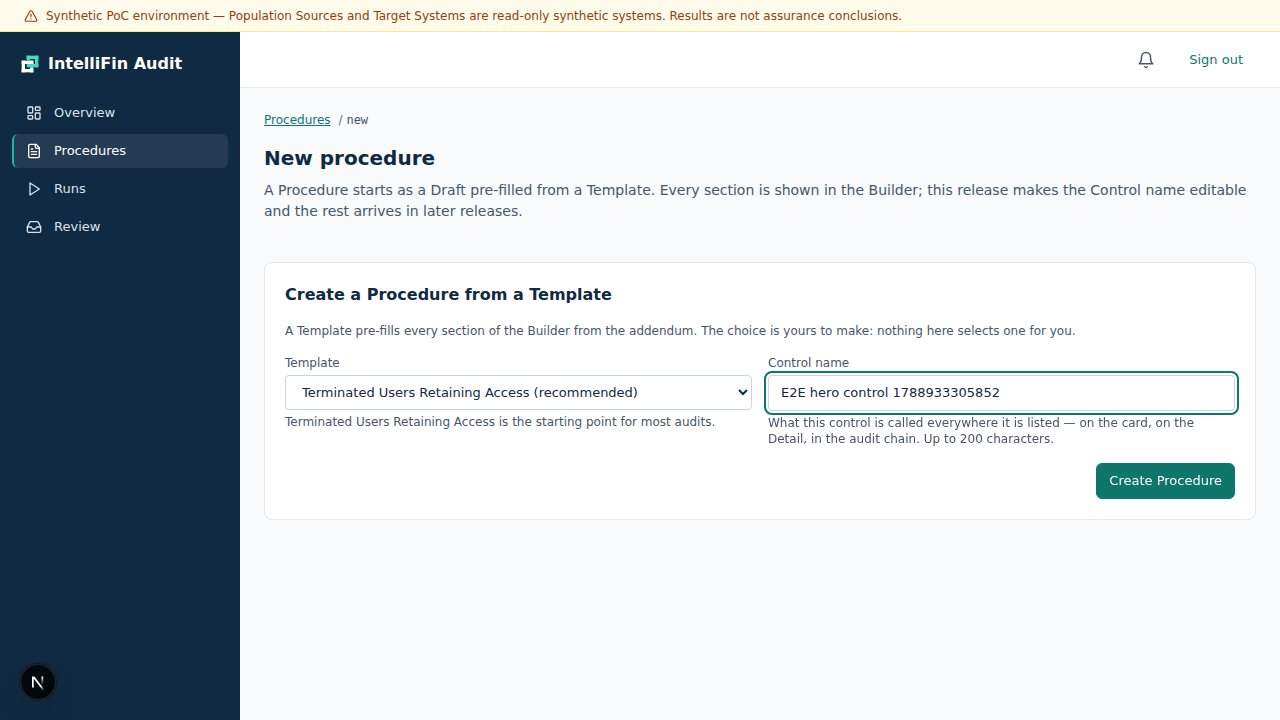
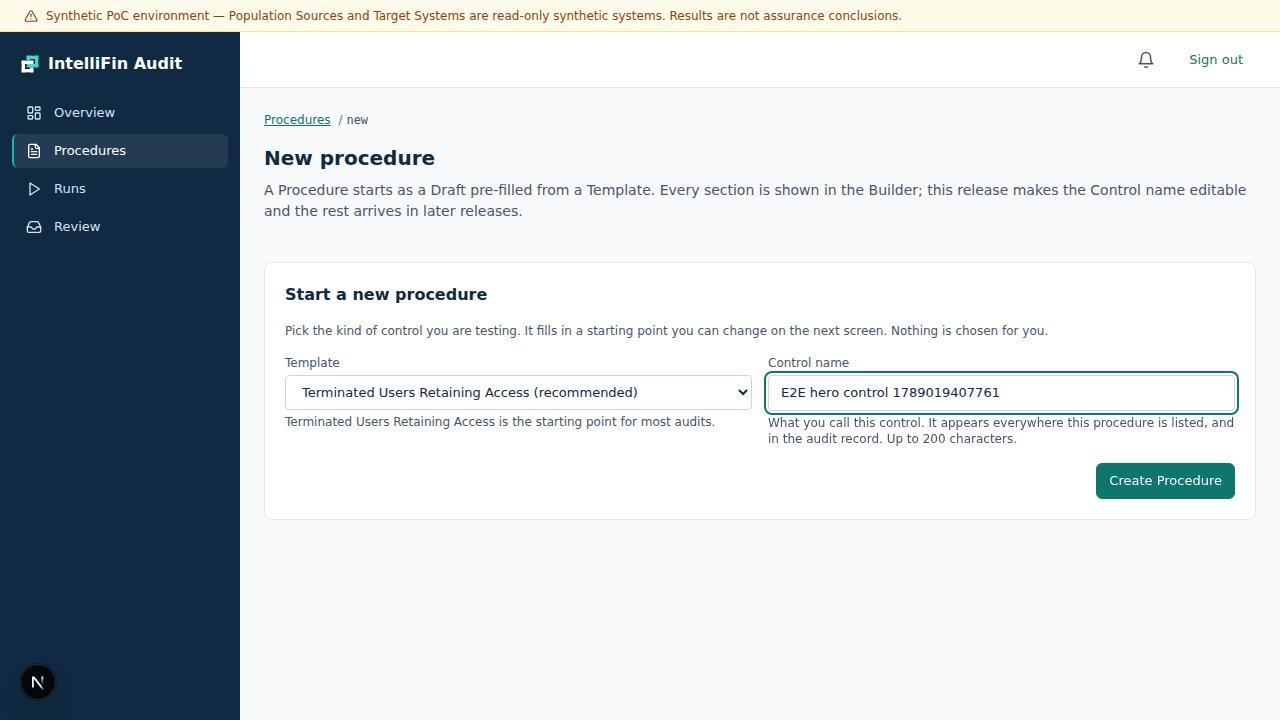
Repair the authoring rename: labels, locators and one over-eager sweep
The browser suite found what the unit suite could not. Six repairs, all in this
change rather than under it:

- The "More options" fold is a `<details>` INSIDE a step, so a spec that opened
  the step and not the fold reached a control whose label it could see and could
  not click. The helper opens every disclosure now, and does it on the CONTEXT —
  `version-review.spec.ts` races a Draft against itself in a second tab, which a
  page-level init script never reached.
- Three labels were renamed in the specs and not in the components they name:
  the model-read checkbox, the privileged-role buttons, and the schedule's
  "Period covered" line. The components now say what the specs assert.
- `Objective` is an h3 inside the one Template panel, and the panel's first
  paragraph is the Control statement — so the pre-fill test read the wrong text
  and found two distinct objectives where §C has four. It reads the Objective's
  own block.
- A blanket rename of "Structural Snapshot" reached a RUN-surface heading. That
  artifact keeps its name in the Evidence contract; only the Builder's grounding
  checkbox, where somebody chooses it, says what it is in words.
- The evidence rule sentence still explained grounding in the addendum's
  vocabulary, and "More options" sat above the choices it is an alternative to.

Verified against a real PostgreSQL 18 and a real browser: 3829 unit tests, 551
modules cruised with no boundary violation, and 116 browser tests across
[…]

Changed region(s): [[0.2188, 0.3972, 0.8438, 0.4889], [0.5938, 0.5806, 0.9688, 0.6111], [0.7188, 0.5194, 0.7812, 0.55]]

diff --git a/tests/e2e/procedures.spec.ts b/tests/e2e/procedures.spec.ts
@@ -633,7 +633,7 @@ test.describe('as an Auditor', () => {
     // rule — this Procedure Version records it and never runs it.
     await page.getByLabel('Frequency').selectOption('daily');
     await page.getByLabel('Start time (UTC)').fill('06:00');
-    await expect(page.getByText('Period covered: Previous calendar day, in UTC.')).toBeVisible();
+    await expect(page.getByText('Each run covers: Previous calendar day, in UTC.')).toBeVisible();
     await page.getByRole('button', { name: 'Save Schedule', exact: true }).click();
     await expect(page.getByText('Saved. The Schedule is recorded in the audit chain.', { exact: true })).toBeVisible();
     await page.getByLabel('Frequency').selectOption('');
@@ -723,7 +723,7 @@ test.describe('as an Auditor', () => {
     await page.getByRole('dialog').getByRole('button', { name: 'Create Procedure' }).click();
     const first = page.locator('fieldset').filter({ has: page.locator('legend', { hasText: /^Evidence item 1$/ }) });
     await first.getByLabel('A saved copy of the page it was read from').uncheck();
-    await first.getByLabel('Screenshot', { exact: true }).uncheck();
+    await first.getByLabel('Screenshot of the page').uncheck();
     await first.getByLabel('Accept a reading with no saved proof behind it').check();
     await first.getByLabel('What to record').fill('retained_name');
     await page.getByLabel('Add a system').selectOption(webId);
@@ -756,18 +756,18 @@ test.describe('as an Auditor', () => {
     await page.getByRole('dialog').getByRole('button', { name: 'Save Target Systems', exact: true }).click();
     await expect(first.getByLabel('A saved copy of the page it was read from')).toBeEnabled();
     await expect(first.getByLabel('A saved copy of the page it was read from')).not.toBeChecked();
-    await expect(first.getByLabel('Screenshot', { exact: true })).not.toBeChecked();
-    await expect(first.getByLabel('Screenshot', { exact: true })).toBeEnabled();
+    await expect(first.getByLabel('Screenshot of the page')).not.toBeChecked();
+    await expect(first.getByLabel('Screenshot of the page')).toBeEnabled();
     await expect(first.getByLabel('What to record')).toHaveValue('retained_name');
     await page.reload();
     await expect(first.getByLabel('Accept a reading with no saved proof behind it')).toBeChecked();
     await expect(first.getByLabel('A saved copy of the page it was read from')).not.toBeChecked();
-    await expect(first.getByLabel('Screenshot', { exact: true })).not.toBeChecked();
+    await expect(first.getByLabel('Screenshot of the page')).not.toBeChecked();
     await expect(addedCapture.getByLabel('A saved copy of the page it was read from')).not.toBeChecked();
-    await expect(addedCapture.getByLabel('Screenshot', { exact: true })).not.toBeChecked();
+    await expect(addedCapture.getByLabel('Screenshot of the page')).not.toBeChecked();
     const authored = page.locator('fieldset').filter({ has: page.locator('legend', { hasText: /^Evidence item 2$/ }) });
     await expect(authored.getByLabel('A saved copy of the page it was read from')).toBeChecked();
-    await expect(authored.getByLabel('Screenshot', { exact: true })).toBeChecked();
+    await expect(authored.getByLabel('Screenshot of the page')).toBeChecked();
     await addedCapture.getByLabel('The lines of the source file it came from').check();
     await page.getByRole('button', { name: 'Save Evidence Requirements', exact: true }).click();
     await expect(page.getByText('Saved. Evidence Requirements are recorded in the audit chain.', { exact: true })).toBeVisible();
@@ -844,9 +844,9 @@ test.describe('as an Auditor', () => {
 
     // Reload from the server; the frozen selection and the instruction editors survive.
     await page.reload();
-    const instruction = page.getByLabel(`Audit Instructions for E2E LoanCore ${stamp}`);
+    const instruction = page.getByLabel(`What the agent should do in E2E LoanCore ${stamp}`);
     await expect(instruction).toBeVisible();
-    await expect(page.getByLabel(`Audit Instructions for E2E LedgerDesk ${stamp}`)).toBeVisible();
+    await expect(page.getByLabel(`What the agent should do in E2E LedgerDesk ${stamp}`)).toBeVisible();
 
     // A refresh caused by a different section must not discard prose that has not been
     // saved yet. Renaming is a separate guarded Draft edit and forces that refresh.
@@ -888,7 +888,7 @@ test.describe('as an Auditor', () => {
     await expect(page.getByText('The Audit Instructions are recorded in the audit chain.')).toBeVisible();
 
     await page.reload();
-    await expect(page.getByLabel(`Audit Instructions for E2E LoanCore ${stamp}`)).toHaveValue(
+    await expect(page.getByLabel(`What the agent should do in E2E LoanCore ${stamp}`)).toHaveValue(
       'Open the account record and note its status, username, and roles.',
     );
     await scan(page);
@@ -914,11 +914,12 @@ test.describe('as an Auditor', () => {
       await card.getByRole('link').click();
       // The sections are on the Builder; the detail surface lists versions.
       await page.getByRole('link', { name: 'Open Builder' }).click();
-      await expect(page.getByRole('heading', { level: 2, name: 'Objective' })).toBeVisible();
+      await expect(page.getByRole('heading', { level: 3, name: 'Objective' })).toBeVisible();
+      // The Objective's own block: Control and Objective share one panel now, so the
+      // first paragraph of the card is the Control statement, not this.
       const objective = await page
-        .locator('.ls-card')
-        .filter({ hasText: 'Objective' })
-        .first()
+        .locator('.ls-template-fact')
+        .filter({ has: page.getByRole('heading', { level: 3, name: 'Objective' }) })
         .locator('p')
         .first()
         .innerText();
@@ -1005,7 +1006,7 @@ test.describe('as an Auditor', () => {
       .first();
     await card.getByRole('link').click();
     await page.getByRole('link', { name: 'Open Builder' }).click();
-    await expect(page.getByRole('heading', { level: 2, name: 'Objective' })).toBeVisible();
+    await expect(page.getByRole('heading', { level: 3, name: 'Objective' })).toBeVisible();
     await scan(page);
   });
 

diff --git a/apps/web/src/procedures/EvidenceScheduleForm.tsx b/apps/web/src/procedures/EvidenceScheduleForm.tsx
@@ -183,13 +183,14 @@ export function EvidenceRequirementsForm({ draft, rowVersion, onSave }: Evidence
         />
       )}
       <p id={`${id}-grounding-help`}>
-        Every attribute value must be grounded in a Structural Snapshot or a source file excerpt, or declared
-        model-read. A screenshot or a recording segment alone never grounds an attribute value.
+        Every value needs proof behind it: a saved copy of the page it was read from, or the lines of the
+        source file it came from. A screenshot or a recording clip is worth keeping, but neither on its own
+        shows where a value came from.
       </p>
       {platformCaptured ? (
         <p className="ls-caption">
-          At least one selected Target System is agent-driven, so Structural Snapshot and screenshot are
-          platform-captured for every attribute here and cannot be unset.
+          One of the systems you chose is driven by the agent, so a saved copy of the page and a screenshot
+          are kept for every value here. You cannot turn those two off.
         </p>
       ) : null}
       <form
@@ -230,28 +231,6 @@ export function EvidenceRequirementsForm({ draft, rowVersion, onSave }: Evidence
                 />
                 <p className="ls-caption">The value you need proof of, spelled the way the system shows it — for example <code>account_status</code>.</p>
               </div>
-              <details className="ls-disclosure">
-                <summary>More options for evidence item {index + 1}</summary>
-                <div className="ls-disclosure__body">
-                  <label>
-                    <input
-                      type="checkbox"
-                      checked={requirement.modelRead}
-                      onChange={(event) => change(index, { modelRead: event.target.checked })}
-                    />{' '}
-                    Accept the agent&rsquo;s reading without matching it to saved proof
-                  </label>
-                  <p className="ls-caption">Leave this off unless there is no way to keep proof for this value. With it off, a value the platform cannot match to the saved proof is left for a person to decide instead of being trusted.</p>
-                  <label>
-                    <input
-                      type="checkbox"
-                      checked={requirement.recordingSegment}
-                      onChange={(event) => change(index, { recordingSegment: event.target.checked })}
-                    />{' '}
-                    Also keep a clip of the session recording
-                  </label>
-                </div>
-              </details>
               <fieldset aria-invalid={(error !== null && !nameError) || undefined} aria-describedby={`${fieldId}-error`}>
                 <legend>Proof kept for this value</legend>
                 {GROUNDING_EVIDENCE_TYPES.map((kind) => (
@@ -275,6 +254,28 @@ export function EvidenceRequirementsForm({ draft, rowVersion, onSave }: Evidence
                 />{' '}
                 Screenshot of the page {forced ? '(always kept for a system the agent drives)' : ''}
               </label>
+              <details className="ls-disclosure">
+                <summary>More options for evidence item {index + 1}</summary>
+                <div className="ls-disclosure__body">
+                  <label>
+                    <input
+                      type="checkbox"
+                      checked={requirement.modelRead}
+                      onChange={(event) => change(index, { modelRead: event.target.checked })}
+                    />{' '}
+                    Accept a reading with no saved proof behind it
+                  </label>
+                  <p className="ls-caption">Leave this off unless there is no way to keep proof for this value. With it off, a value the platform cannot match to the saved proof is left for a person to decide instead of being trusted.</p>
+                  <label>
+                    <input
+                      type="checkbox"
+                      checked={requirement.recordingSegment}
+                      onChange={(event) => change(index, { recordingSegment: event.target.checked })}
+                    />{' '}
+                    Also keep a clip of the session recording
+                  </label>
+                </div>
+              </details>
               <div id={`${fieldId}-error`} aria-live="polite">
                 {error === null ? null : <Banner tone="warning" title={error} />}
               </div>

diff --git a/tests/e2e/version-review.spec.ts b/tests/e2e/version-review.spec.ts
@@ -74,7 +74,7 @@ test('P-1 authored Builder → actual worker/SDK HTTP → submitted review → r
     await save(page,'Save records to test'); await expect(page.getByRole('button',{name:'Save records to test',exact:true})).toBeEnabled(); await expect(page.getByText('Saved. The Draft change is recorded in the audit chain.').first()).toBeVisible();
     for (const id of [webId,desktopId]) { await page.getByLabel('Add a system').selectOption(id); await page.getByRole('button', { name: 'Add Target System', exact: true }).click(); }
     await confirmed(page,'Save Target Systems'); await expect(page.getByText('Saved. The Target System selection is recorded in the audit chain.')).toBeVisible();
-    for (const name of [webName,desktopName]) await page.getByLabel(`Audit Instructions for ${name}`, { exact: true }).fill('Read account status for each terminated employee by employee_id and full_name.');
+    for (const name of [webName,desktopName]) await page.getByLabel(`What the agent should do in ${name}`, { exact: true }).fill('Read account status for each terminated employee by employee_id and full_name.');
     await save(page,'Save Audit Instructions'); await expect(page.getByText('Saved. The Audit Instructions are recorded in the audit chain.')).toBeVisible();
     await page.reload(); await expect(page.getByLabel('Allow the same record to appear more than once', { exact: true })).toBeChecked(); await expect(page.getByLabel(`Value ${count}`, { exact: true })).toHaveValue('Finance');
   evidenceStorage = await startSyntheticS3();
@@ -176,7 +176,7 @@ test('Population, Target and Instruction editors preserve dirty values, reset co
     await expect(other.getByText('Saved. The Target System selection is recorded in the audit chain.')).toBeVisible(); await page.bringToFront();
     await expect(page.getByText('Target Systems changed in another session. Review the saved values before replacing them.')).toBeVisible({timeout:20000}); await expect(page.getByRole('button',{name:'Submit for approval',exact:true})).toHaveAccessibleDescription(/conflict/); await expect(page.getByRole('button',{name:'Remove Conflict target B',exact:true})).toBeVisible(); await page.getByRole('button',{name:'Use saved Target Systems'}).click(); await expect(page.getByRole('button',{name:'Remove Conflict target C',exact:true})).toBeVisible();
     await page.getByLabel('Add a system').selectOption(targetB); await page.getByRole('button',{name:'Add Target System',exact:true}).click(); await lose('Save Target Systems','Save Target Systems'); await expect(page.getByRole('button',{name:'Remove Conflict target B',exact:true})).toBeVisible();
-    await other.reload(); const label = 'Audit Instructions for Conflict target C'; await page.getByLabel(label,{exact:true}).fill('Locally edited instructions.'); await other.getByLabel(label,{exact:true}).fill('Saved remote instructions.'); await save(other,'Save Audit Instructions');
+    await other.reload(); const label = 'What the agent should do in Conflict target C'; await page.getByLabel(label,{exact:true}).fill('Locally edited instructions.'); await other.getByLabel(label,{exact:true}).fill('Saved remote instructions.'); await save(other,'Save Audit Instructions');
     await expect(other.getByText('Saved. The Audit Instructions are recorded in the audit chain.')).toBeVisible(); await page.bringToFront();
     await expect(page.getByText('Audit Instructions changed in another session. Review the saved values before replacing them.')).toBeVisible({timeout:20000}); await expect(page.getByRole('button',{name:'Submit for approval',exact:true})).toHaveAccessibleDescription(/conflict/); await expect(page.getByLabel(label,{exact:true})).toHaveValue('Locally edited instructions.'); await page.getByRole('button',{name:'Use saved Audit Instructions'}).click(); await expect(page.getByLabel(label,{exact:true})).toHaveValue('Saved remote instructions.');
     await page.getByLabel(label,{exact:true}).fill('Committed instruction response was lost.'); await lose('Save Audit Instructions'); await expect(page.getByLabel(label,{exact:true})).toHaveValue('Committed instruction response was lost.'); await scan(page);

diff --git a/apps/web/src/procedures/ComplianceRuleForm.tsx b/apps/web/src/procedures/ComplianceRuleForm.tsx
@@ -304,7 +304,7 @@ export function ComplianceRuleForm({ draft, rowVersion, onSave }: ComplianceRule
               <p>Names are compared exactly, capital letters included. Type each one as the Target System displays it.</p>
             </div>
             {condition.policy === undefined
-              ? <Button type="button" aria-describedby={`${fieldId}-policy-help`} onClick={() => changeCondition(condition.conditionId, { policy: EMPTY_POLICY })}>Add role-privilege policy {condition.conditionId}</Button>
+              ? <Button type="button" aria-describedby={`${fieldId}-policy-help`} onClick={() => changeCondition(condition.conditionId, { policy: EMPTY_POLICY })}>Add the list of privileged roles {condition.conditionId}</Button>
               : <>
                 <LineListField id={`${fieldId}-privileged`} label={`Privileged roles ${condition.conditionId}`} help="One role name per line, exactly as the Target System displays it." values={condition.policy.privileged}
                   invalid={policyProblem !== null} onChange={(privileged) => changeCondition(condition.conditionId, { policy: { ...condition.policy!, privileged } })} />
@@ -319,7 +319,7 @@ export function ComplianceRuleForm({ draft, rowVersion, onSave }: ComplianceRule
                   being typed, is the difference between a refusal and something to do.
                 */}
                 <div aria-live="polite">{policyProblem === null ? null : <Banner tone="warning" title={policyProblem} />}</div>
-                <Button type="button" onClick={() => removePolicy(condition.conditionId)}>Remove role-privilege policy {condition.conditionId}</Button>
+                <Button type="button" onClick={() => removePolicy(condition.conditionId)}>Remove the list of privileged roles {condition.conditionId}</Button>
               </>}
           </fieldset> : null}
           <div id={`${fieldId}-error`} aria-live="polite">{error === null ? null : <Banner tone="warning" title={error} />}</div>

diff --git a/tests/e2e/disablement-window-journey.spec.ts b/tests/e2e/disablement-window-journey.spec.ts
@@ -354,7 +354,7 @@ async function assertBothInstantsAcquired(runId: string, kase: WindowCase): Prom
 
   // The disablement side: captured from the account page by its registered label, kept
   // in its source spelling, normalized to UTC, and grounded at a locator in a REGISTERED
-  // A saved copy of the page it was read from whose bytes hold that very cell, in the same record group as the
+  // A Structural Snapshot whose bytes hold that very cell, in the same record group as the
   // employee identity. A wrong employee's page would never reach this point (see the
   // application-level correlation test); this proves the grounding on real bytes.
   const observations = await sql`SELECT population_record_key,found,target_system,match_origin,coverage,attributes FROM run_observation WHERE run_id=${runId}`;
@@ -459,7 +459,7 @@ async function inspectDisabledTime(page: Page, runId: string, disabled: StoredAt
     const link = page.locator(`a[href="${path}"]`);
     await expect(link).toBeVisible();
     await link.click();
-    await expect(page.getByRole('heading', { name: 'Stored A saved copy of the page it was read from', exact: true })).toBeVisible();
+    await expect(page.getByRole('heading', { name: 'Stored Structural Snapshot', exact: true })).toBeVisible();
     const value = page.locator('.ls-untrusted').filter({ hasText: 'as read at the stored snapshot locator' }).locator('pre');
     await expect(value).toHaveText(JSON.stringify(DISABLED_AT_SOURCE));
     await scan(page);

diff --git a/tests/e2e/builder.ts b/tests/e2e/builder.ts
@@ -29,7 +29,7 @@ export async function openStep(page: Page | Locator, heading: string): Promise<v
 }
 
 /**
- * Keep every Builder step open, for a spec whose subject is what is INSIDE the steps.
+ * Keep every disclosure on the page open, for a spec whose subject is what is INSIDE them.
  *
  * A hundred assertions in this suite are about the editors — a stale-tab conflict, a
  * lost save response, a compiled condition's badge — and were written when the Builder
@@ -45,9 +45,14 @@ export async function openStep(page: Page | Locator, heading: string): Promise<v
  * rather than a call beside every `goto`.
  */
 export async function keepBuilderStepsOpen(page: Page): Promise<void> {
-  await page.addInitScript(() => {
+  // On the CONTEXT, not the page: version-review races a Draft against itself in a
+  // second tab opened from this context, and a page-level script would not reach it.
+  await page.context().addInitScript(() => {
     const open = (): void => {
-      for (const step of document.querySelectorAll<HTMLDetailsElement>('details.ls-step')) {
+      // Every `<details>`, not only `details.ls-step`: a step's "More options" fold is
+      // itself a disclosure, and a spec that opens the step but not the fold reaches a
+      // control it can see the label of and cannot click.
+      for (const step of document.querySelectorAll<HTMLDetailsElement>('details')) {
         if (!step.open) step.open = true;
       }
     };

diff --git a/apps/web/src/procedures/ExecutablePlanPreview.tsx b/apps/web/src/procedures/ExecutablePlanPreview.tsx
@@ -60,7 +60,7 @@ export function ExecutablePlanPreview({ draft, modelConfiguration }: { readonly 
         <p className="ls-whitespace">{condition.text}</p><p>Applies when: {condition.applicability}</p>
         <p>Compiled applicability: {predicateText(condition.applicabilityAst)}.</p>
         {condition.rule === null ? <p>The agent must be at least {plan.inputs.agentJudgedThreshold} certain. Below that, the record is left for a person to decide.</p> : <p>Compiled rule: {ruleText(condition.rule)}</p>}
-        {condition.policy === undefined ? null : <p>Frozen role-privilege policy: {policyText(condition.policy)}</p>}
+        {condition.policy === undefined ? null : <p>Which roles count as privileged, frozen with this version: {policyText(condition.policy)}</p>}
       </div>)}
       <h3>Sign-in credentials</h3>
       <ul>{plan.credentialReferences.map((reference) => <li key={reference.targetSystemId}>{plan.inputs.targets.find((target) => target.registrationId === reference.targetSystemId)?.displayName}: <code>{reference.credentialRef}</code></li>)}</ul>

diff --git a/apps/web/src/procedures/AgentSummary.tsx b/apps/web/src/procedures/AgentSummary.tsx
@@ -48,9 +48,9 @@ export function AgentSummary({
       </h2>
       {plan === null ? (
         <p data-agent-summary-empty>
-          There is no derived plan yet, so there is nothing to summarise. The executable
-          plan preview below says whether the plan is being derived or could not be
-          derived, and why.
+          No plan has been worked out yet, so there is nothing to summarise. The
+          step-by-step plan below says whether it is still being worked out, or could not
+          be, and why.
         </p>
       ) : (
         <>

diff --git a/tests/e2e/sources.spec.ts b/tests/e2e/sources.spec.ts
@@ -120,7 +120,7 @@ test.describe('as a PoC Administrator', () => {
   test('registers a versioned file through the dialog and sees its digest', async ({ page }) => {
     await page.goto('/administration/sources');
     await expect(
-      page.getByRole('heading', { name: 'Population Source bindings', level: 1 }),
+      page.getByRole('heading', { name: 'Population sources', level: 1 }),
     ).toBeVisible();
 
     // A submission that beats hydration must not put every field in the URL. With no

diff --git a/tests/e2e/registrations.spec.ts b/tests/e2e/registrations.spec.ts
@@ -86,7 +86,7 @@ test.describe('as a PoC Administrator', () => {
   }) => {
     await page.goto('/administration/registrations');
     await expect(
-      page.getByRole('heading', { name: 'Target System registrations', level: 1 }),
+      page.getByRole('heading', { name: 'Target systems', level: 1 }),
     ).toBeVisible();
 
     // A submission that beats hydration must not put every field in the URL. With no

diff --git a/CLAUDE.md b/CLAUDE.md
@@ -79,6 +79,20 @@ Three mechanical notes:
   textarea whether the step is open or not, so a visibility assertion on it passes for the
   wrong reason; the step's own Save control is unambiguous.
 
+- **`page.addInitScript` is per PAGE; the helper belongs on the CONTEXT.**
+  `version-review.spec.ts` races a Draft against itself in a second tab opened with
+  `page.context().newPage()`, and a page-level script never reached it — so that tab met a
+  control whose label it could see and could not click.
+- **A blanket rename hits surfaces the change was not about.** "Structural Snapshot" became
+  plain words on the Builder's grounding CHECKBOX, where somebody chooses it; the Run
+  surfaces still call the artifact a Structural Snapshot, which is its name in the Evidence
+  contract. A `sed` over the specs rewrote a Run-page heading assertion too, and only
+  `disablement-window-journey.spec.ts` could see it.
+- **Read the FIRST failure, again.** Two of the four browser runs it took to get here ended
+  with six or seven red tests of which ONE was real: a failing test restarts the Playwright
+  worker, `afterAll` deletes the Procedures the file created, and every later test then
+  fails on an empty list for a reason that is not its own.
+
 **The Administration screens got the same pass**, because that is where a source and a
 system are set up before anybody can build a procedure with them. `BindingForm` and
 `RegistrationForm` are now one column somebody works down — name it, say how the records
